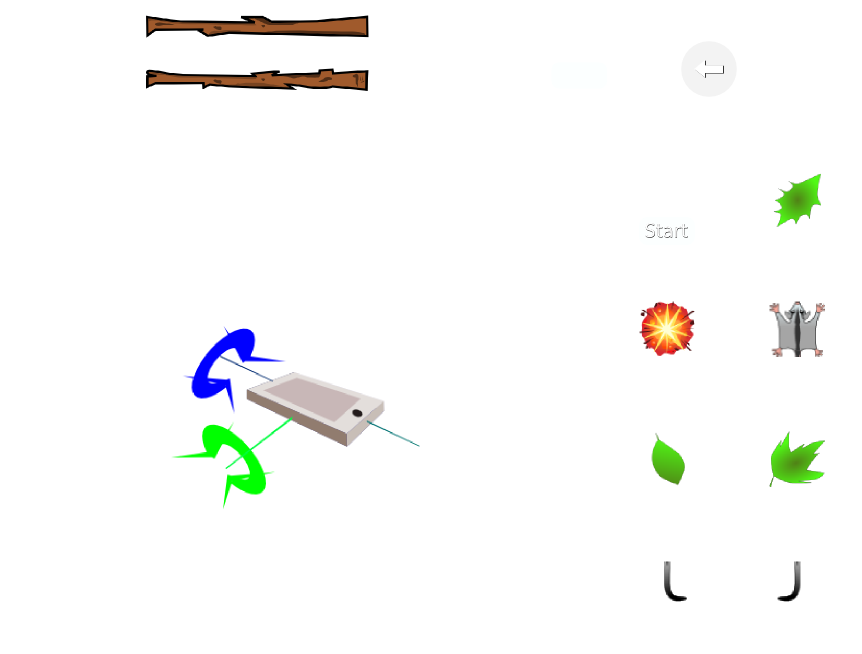
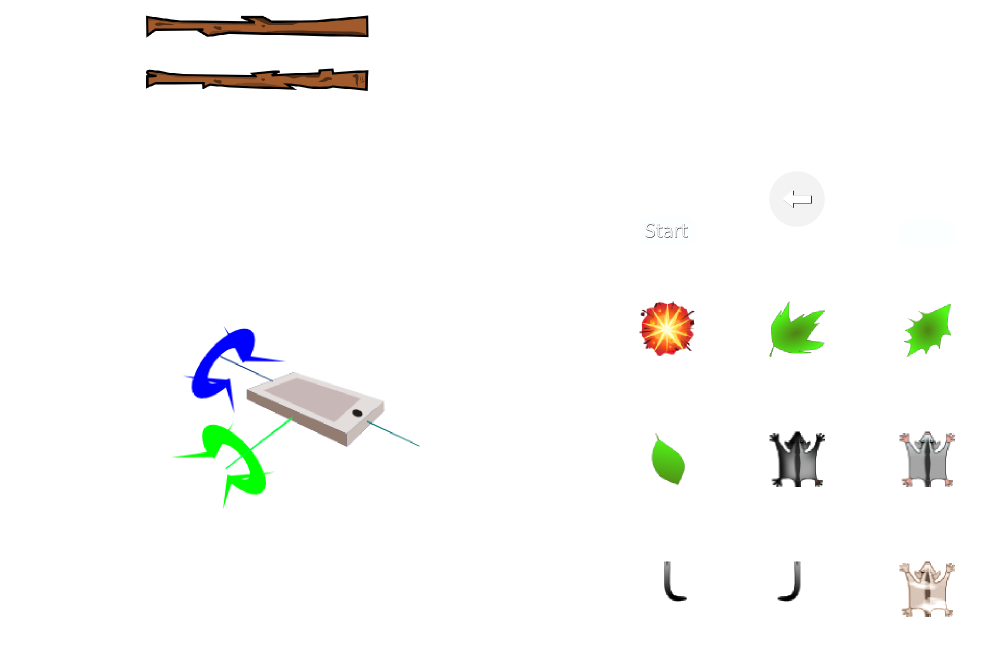
added more distinction between opponent glider and player's glider

diff --git a/core/src/com/bondfire/swiftyglider/sprites/Glider.java b/core/src/com/bondfire/swiftyglider/sprites/Glider.java
@@ -21,7 +21,9 @@ public class Glider extends Box {
 
     public final static float SCALE_GLIDER = 0.14634f;
 
-    private TextureRegion body;
+    private TextureRegion opponentBody;
+    private TextureRegion multiplayerBody;
+    private TextureRegion singleplayerBody;
     private TextureRegion explosion;
     private TextureRegion tail_left;
     private TextureRegion tail_right;
@@ -66,24 +68,24 @@ public class Glider extends Box {
     public void setParticipantId(String participantId) {
         this.participantId = participantId;
     }
-    private String participantId;
-
+    private String participantId = "";
     public void setIsOpponent(boolean isOpponent) {
         this.isOpponent = isOpponent;
     }
-
     private boolean isOpponent = false;
 
     /**name of person **/
-    public String getDispayName() {
-        return dispayName;
+    public String getDisplayName() {
+        return displayName;
     }
-    public void setDispayName(String dispayName) {
-        this.dispayName = dispayName;
+    public void setDisplayName(String displayName) {
+        this.displayName = displayName;
     }
-    public String dispayName;
+    public String displayName;
     public static BitmapFont bitmapFont;
 
+    private static float NETWORK_WATCH_DOG_TIMER_RESET_VALUE = 7.0f;
+    private float networkWatchDogTimer;
 
 
     public Glider(float x, float y) {
@@ -102,10 +104,12 @@ public class Glider extends Box {
 
         atlas =(BlurrableTextureAtlas)SwiftyGlider.res.getAtlas("sprites");
 
-        body = atlas.findRegion("glider");
+        singleplayerBody = atlas.findRegion("glider");
         explosion = atlas.findRegion("explosion");
         tail_left = atlas.findRegion("tail_left");
         tail_right = atlas.findRegion("tail_right");
+        opponentBody = atlas.findRegion("opponent_glider");
+        multiplayerBody = atlas.findRegion("me_glider");
 
         filter = new LinkedList<Float>();
 
@@ -133,7 +137,10 @@ public class Glider extends Box {
         }
     }
 
+
+
     public void update(float dt) {
+
         if (death_latch) {
             deathTimer += dt;
         }
@@ -194,8 +201,8 @@ public class Glider extends Box {
 
         if(!atlas.isBlurrable()){
             System.out.println("Blurring from Lighs");
-            body.getTexture().getTextureData().prepare();
-            atlas.PrepareBlur(body.getTexture().getTextureData().consumePixmap());
+            singleplayerBody.getTexture().getTextureData().prepare();
+            atlas.PrepareBlur(singleplayerBody.getTexture().getTextureData().consumePixmap());
         }
         atlas.bind();
 
@@ -219,25 +226,52 @@ public class Glider extends Box {
                         false);
 
 //                sb.draw(explosion, x - width / 2, y - height / 2, width, height);
-            }else{
+            }else {
 
-                //Draw the body
-                sb.draw(atlas.tex,
-                        x - width / 2,
-                        y - height / 2,
-                        width / 2,
-                        height / 2,
-                        (width - width * Math.abs(velocity_X)/1200 ) ,
-                        height ,
-                        1,
-                        1,
-                        0,// scale
-                        collidingWind ?  explosion.getRegionX():body.getRegionX(),
-                        collidingWind ?  explosion.getRegionY():body.getRegionY(),
-                        collidingWind ?  explosion.getRegionWidth():body.getRegionWidth(),
-                        collidingWind ?  explosion.getRegionHeight():body.getRegionHeight(),
-                        false,
-                        false);
+                //Draw the singleplayerBody
+                if (participantId.isEmpty()) {
+
+                    sb.draw(atlas.tex,
+                            x - width / 2,
+                            y - height / 2,
+                            width / 2,
+                            height / 2,
+                            (width - width * Math.abs(velocity_X) / 1200),
+                            height,
+                            1,
+                            1,
+                            0,// scale
+                            collidingWind ? explosion.getRegionX() :  singleplayerBody.getRegionX(),
+                            collidingWind ? explosion.getRegionY() :  singleplayerBody.getRegionY(),
+                            collidingWind ? explosion.getRegionWidth() : singleplayerBody.getRegionWidth(),
+                            collidingWind ? explosion.getRegionHeight() : singleplayerBody.getRegionHeight(),
+                            false,
+                            false);
+
+                }else{
+
+                    sb.draw(atlas.tex,
+                            x - width / 2,
+                            y - height / 2,
+                            width / 2,
+                            height / 2,
+                            (width - width * Math.abs(velocity_X) / 1200),
+                            height,
+                            1,
+                            1,
+                            0,// scale
+                            collidingWind ? explosion.getRegionX() : isOpponent ? opponentBody.getRegionX() : multiplayerBody.getRegionX(),
+                            collidingWind ? explosion.getRegionY() : isOpponent ? opponentBody.getRegionY() : multiplayerBody.getRegionY(),
+                            collidingWind ? explosion.getRegionWidth() : isOpponent ? opponentBody.getRegionWidth() : multiplayerBody.getRegionWidth(),
+                            collidingWind ? explosion.getRegionHeight() : isOpponent ? opponentBody.getRegionHeight() : multiplayerBody.getRegionHeight(),
+                            false,
+                            false);
+
+
+                }
+
+
+
 
                 //draw the tail
                 sb.draw(atlas.tex,
@@ -245,21 +279,21 @@ public class Glider extends Box {
                         y - height - height / 2,
                         width / 2,
                         height / 2,
-                        (width - width * Math.abs(velocity_X)/1200 ) ,
-                        height ,
+                        (width - width * Math.abs(velocity_X) / 1200),
+                        height,
                         1,
                         1,
                         0,// scale
-                        tailFlapping ?  tail_left.getRegionX():tail_right.getRegionX(),
-                        tailFlapping ?  tail_left.getRegionY():tail_right.getRegionY(),
-                        tailFlapping ?  tail_left.getRegionWidth():tail_right.getRegionWidth(),
-                        tailFlapping ?  tail_left.getRegionHeight():tail_right.getRegionHeight(),
+                        tailFlapping ? tail_left.getRegionX() : tail_right.getRegionX(),
+                        tailFlapping ? tail_left.getRegionY() : tail_right.getRegionY(),
+                        tailFlapping ? tail_left.getRegionWidth() : tail_right.getRegionWidth(),
+                        tailFlapping ? tail_left.getRegionHeight() : tail_right.getRegionHeight(),
                         false,
                         false);
-                if (getDispayName() != null) {
-                    if (!getDispayName().isEmpty()) {
-                        bitmapFont.setColor(1.0f,1.0f,1.0f,  1 - (SwiftyGlider.blurAmount) );
-                        bitmapFont.draw(sb, getDispayName(), x - width /3, y + 10 );
+                if (getDisplayName() != null) {
+                    if (!getDisplayName().isEmpty()) {
+                        bitmapFont.setColor(1.0f, 1.0f, 1.0f, 1 - (SwiftyGlider.blurAmount));
+                        bitmapFont.draw(sb, getDisplayName(), x - width / 3, y + 10);
                     }
                 }
             }

diff --git a/core/src/com/bondfire/swiftyglider/states/PlayState.java b/core/src/com/bondfire/swiftyglider/states/PlayState.java
@@ -110,6 +110,7 @@ public class PlayState extends State {
     private static LevelSyncMessage inLevelMessage;
     private static LevelSyncMessage outLevelMessage;
 
+
     public PlayState(GSM gsm, int level, GameRoom room, boolean multiPlayer) {
 
         super(gsm);
@@ -152,7 +153,7 @@ public class PlayState extends State {
                     //if this is us
                     if (participant.getParticipantId() == room.getClientId()) {
                         glider.setParticipantId(participant.getParticipantId());
-                        glider.setDispayName(participant.getParticipantName().substring(0, 2) + ".");
+                        glider.setDisplayName(participant.getParticipantName().substring(0, 2) + ".");
                         glider.setIsOpponent(false);
                         continue;
                     }
@@ -161,7 +162,7 @@ public class PlayState extends State {
                     if (participant.getPlayerStatus() != GameParticipant.STATUS_BUSY) {
                         Glider glider = new Glider(SwiftyGlider.WIDTH / 2, SwiftyGlider.HEIGHT / 4);
                         glider.setParticipantId(participant.getParticipantId());
-                        glider.setDispayName(participant.getParticipantName().substring(0, 2) + ".");
+                        glider.setDisplayName(participant.getParticipantName().substring(0, 2) + ".");
                         glider.setIsOpponent(true);
                         opponentGliders.add(glider);
                     }
@@ -835,13 +836,13 @@ public class PlayState extends State {
                     foundMatch = false;
 
                     if (d_updateRoom)
-                        Gdx.app.log(TAG, "updateRoom() Checking if " + glider.getDispayName() + " left");
+                        Gdx.app.log(TAG, "updateRoom() Checking if " + glider.getDisplayName() + " left");
 
                     for (int j = 0; j < incomingGameRoom.getParticipants().size; j++) {
 
                         GameParticipant participant = incomingGameRoom.getParticipants().get(j);
                         if (participant.getParticipantId().equals(glider.getParticipantId())) {
-                            Gdx.app.log(TAG, "updateRoom() "+glider.getDispayName() + " is still here");
+                            Gdx.app.log(TAG, "updateRoom() "+glider.getDisplayName() + " is still here");
                             foundMatch = true;
                             break;
                         }
@@ -850,7 +851,7 @@ public class PlayState extends State {
                     // Check if we found this person in the new room configuration
                     if (!foundMatch) {
                         if (d_updateRoom)
-                            Gdx.app.log(TAG, "updateRoom() Setting " + glider.getDispayName() + " dead");
+                            Gdx.app.log(TAG, "updateRoom() Setting " + glider.getDisplayName() + " dead");
                         //mark this glider as DEAD
                         glider.setColliding(true);
                         break;
